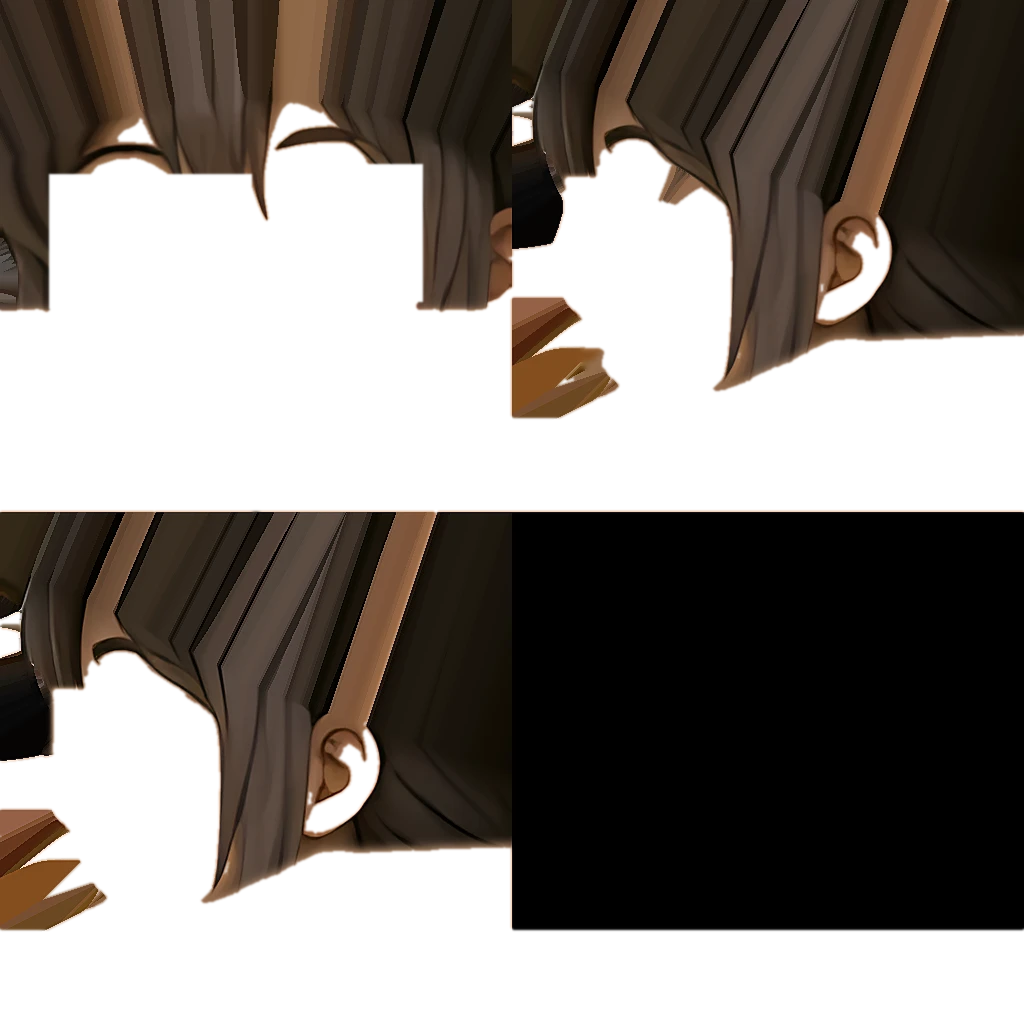
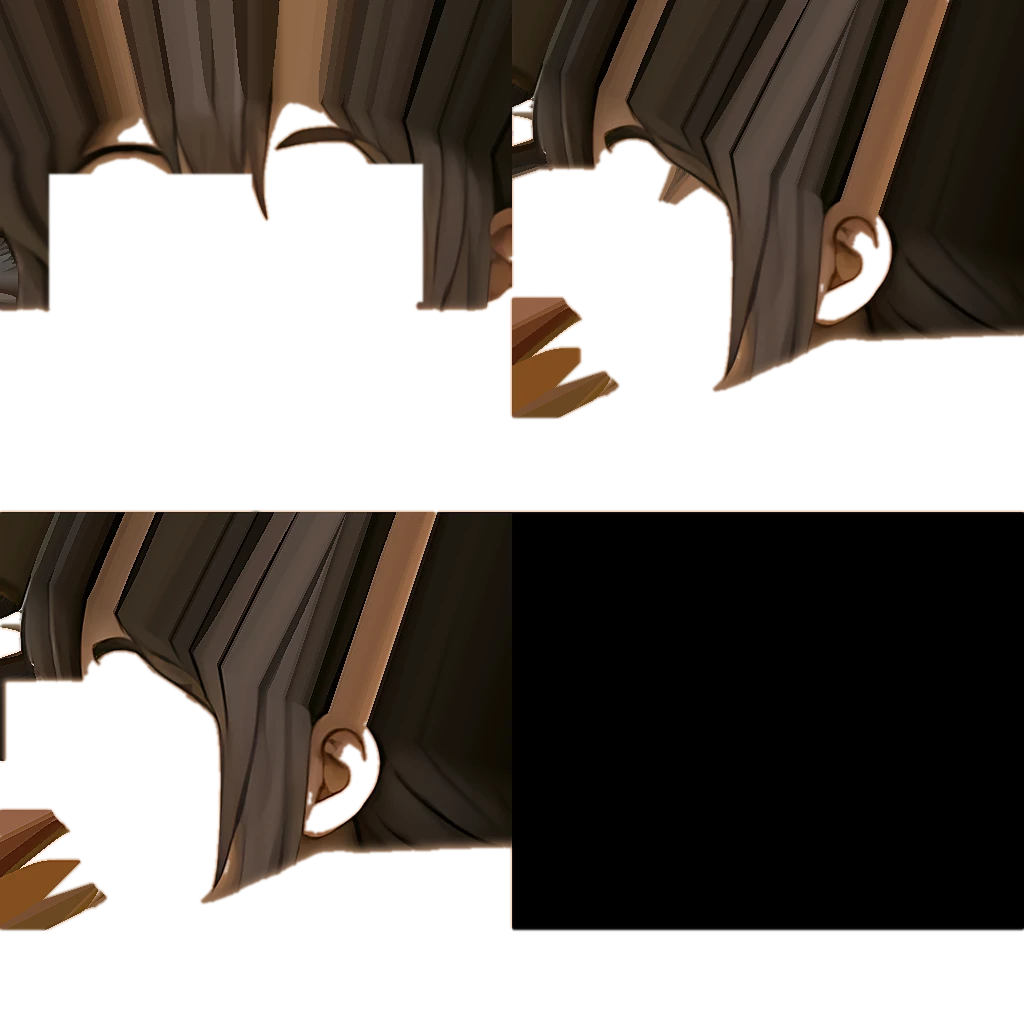
Character v9: soft wide skin gradient masked off the eyes/nose/mouth, eye slide ends exactly on the sheet's side eye (seamless 72deg swap), larger male profile eye with the hair shell cleared over it, warm-brown side iris for her, sheet side-view smile on the same hard switch (front mouth removed th

Changed region(s): [[0.5, 0.1562, 0.5938, 0.25], [0.0, 0.6562, 0.0938, 0.75], [0.5312, 0.3125, 0.5938, 0.375]]

diff --git a/index.html b/index.html
@@ -5313,7 +5313,7 @@ const CharView = (() => {
       B['th' + k] = bone('thigh' + k, B.hips, s * 0.082, -0.045, 0); B['sn' + k] = bone('shin' + k, B['th' + k], 0, -LT, 0); B['ft' + k] = bone('foot' + k, B['sn' + k], 0, -LS, 0); }
     // ---- head: a sculpted anime head (oval, cheek volume, small nose / lip / chin profile) with a painted face decal ----
     const HC = V(0, 0.122, 0.012), head = new THREE.Group(); head.position.copy(HC); head.scale.setScalar(F ? 0.93 : 0.94); B.head.add(head); B.headC = head;
-    const HD = HEADS[F ? 'f' : 'm'], hgeo = headGeo(F); part(head, hgeo, headMat(F)); if (window.HSHELL !== 0) part(head, hairShell(hgeo, F), headMat(F, true), null, null, null, { ink: false });
+    const HD = HEADS[F ? 'f' : 'm'], hgeo = headGeo(F); { const hm = part(head, hgeo, headMat(F), null, null, null, { ink: false }); hm.add(new THREE.Mesh(hgeo, headInk())); } if (window.HSHELL !== 0) part(head, hairShell(hgeo, F), headMat(F, true), null, null, null, { ink: false });
     // ears (with an inner shade) placed behind the jaw, as on the side view
     for (const s of [-1, 1]) { const W = tab(HD.rows, HD.ear[0], 1), o = new THREE.Object3D(); o.position.set(s * (W + 0.003), HD.ear[0], HD.ear[1]); o.rotation.set(0, s * 0.45, s * 0.08); o.updateMatrix();
       const eg = ell(0.013, 0.022, 0.009, 16, 12).applyMatrix4(o.matrix); eg.setAttribute('color', new THREE.Float32BufferAttribute(new Array(eg.attributes.position.count * 3).fill(0.96), 3)); part(head, eg, headMat(F)); }
@@ -5327,7 +5327,7 @@ const CharView = (() => {
         sh.vertexShader = sh.vertexShader.replace('#include <common>', '#include <common>\nvarying vec3 vOP;').replace('#include <begin_vertex>', '#include <begin_vertex>\nvOP = position;');
         sh.fragmentShader = sh.fragmentShader.replace('#include <common>', '#include <common>\nvarying vec3 vOP; uniform vec3 uView; uniform vec4 uEP; uniform vec4 uET; uniform vec4 uPR; uniform float uK; uniform float uXR; uniform sampler2D mapS;\n' + EYEWARP)
           .replace('#include <map_fragment>', 'vec2 luv = vec2((64.0 + eyeWarpX(vOP.x, uView, uEP, uET) / uK) / 128.0, 1.0 - (60.0 - (vOP.y + 0.03) / uK) / 116.0); vec4 lt = texture2D(map, luv); float sv = sign(uView.x + 1e-4); if (abs(uView.x) > 0.951 && vOP.x * sv > 0.0) lt = texture2D(mapS, vec2((uXR - vOP.z / uK - 667.0) / 128.0, 1.0 - (60.0 - (vOP.y + 0.03) / uK) / 116.0)); diffuseColor *= lt;')
-          .replace('#include <emissivemap_fragment>', '#include <emissivemap_fragment>\n' + TONE2('1.0') + '0.2;'); }; dm.customProgramCacheKey = () => 'lidwarp2';
+          .replace('#include <emissivemap_fragment>', '#include <emissivemap_fragment>\n' + TONE2('1.0', '0.0') + '0.2;'); }; dm.customProgramCacheKey = () => 'lidwarp3';
       const dec = new THREE.Mesh(dg, dm); dec.renderOrder = 1; dec.visible = false; head.add(dec); built.face = { m: dm, mesh: dec, key: '0_0', F, uMS }; }
     // ---- hair: a cap plus layered, tapered clumps (fringe, side locks, back) ----
     const lock = (pts, r0, o = {}) => { const cur = new THREE.CatmullRomCurve3(pts.map((p) => V(...p))), ts = 16, rs = 9, g = new THREE.TubeGeometry(cur, ts, r0, rs, false), Pp = g.attributes.position, c = V(0, 0, 0), v = V(0, 0, 0), n = V(0, 0, 0);
@@ -5501,15 +5501,16 @@ const CharView = (() => {
   const HEADS = {
     m: { K: 0.0023, xref: 730.4, rows: [[0.132, 0, -0.012, -0.012], [0.12, 0.058, 0.05, -0.078], [0.1, 0.086, 0.078, -0.106], [0.07, 0.102, 0.095, -0.12], [0.04, 0.107, 0.102, -0.125], [0.01, 0.107, 0.103, -0.124], [-0.015, 0.105, 0.1, -0.121], [-0.03, 0.102, 0.097, -0.117], [-0.045, 0.098, 0.091, -0.108], [-0.06, 0.091, 0.093, -0.045], [-0.08, 0.082, 0.095, -0.03], [-0.095, 0.073, 0.092, -0.018], [-0.11, 0.059, 0.083, -0.004], [-0.122, 0.046, 0.077, 0.012], [-0.132, 0.032, 0.075, 0.032], [-0.14, 0.018, 0.073, 0.054], [-0.147, 0, 0.07, 0.07]],
       nose: [[-0.035, 0], [-0.045, 0.003], [-0.055, 0.009], [-0.063, 0.017], [-0.068, 0.021], [-0.073, 0.015], [-0.079, 0.005], [-0.084, 0]], lips: [-0.094, 0.0045], ear: [-0.033, -0.045],
-      eyesF: [[-33.25, -10.75, -7.5, 6], [13, 35.5, -7.5, 6]], lidCol: '#d2a47a', pe: 120, skin: '#d2a87f', eyeT: [0.072, 0.1, 0.072, 0.1], eyeS: [707, -1, 7.5, 7.5], profR: [711, -1.5, 12, 15] },
+      eyesF: [[-33.25, -10.75, -7.5, 6], [13, 35.5, -7.5, 6]], lidCol: '#d2a47a', pe: 120, skin: '#d2a87f', eyeT: [0.077, 0.098, 0.077, 0.098], eyeS: [707, -1.25, 9, 9], eyeSc: 1.2, profR: [711.8, -1.5, 14.4, 18], mouthS: [700.5, 29.5, 8, 5] },
     f: { K: 0.0023, xref: 730.4, rows: [[0.132, 0, -0.012, -0.012], [0.12, 0.058, 0.05, -0.078], [0.1, 0.085, 0.078, -0.106], [0.07, 0.1, 0.095, -0.12], [0.04, 0.106, 0.103, -0.125], [0.01, 0.106, 0.104, -0.124], [-0.015, 0.104, 0.1, -0.121], [-0.03, 0.101, 0.096, -0.117], [-0.045, 0.097, 0.097, -0.108], [-0.065, 0.087, 0.099, -0.04], [-0.085, 0.077, 0.104, -0.02], [-0.1, 0.067, 0.1, -0.005], [-0.114, 0.052, 0.092, 0.02], [-0.128, 0.034, 0.087, 0.048], [-0.137, 0.02, 0.084, 0.068], [-0.144, 0.009, 0.082, 0.077], [-0.149, 0, 0.08, 0.08]],
       nose: [[-0.033, 0], [-0.043, 0.003], [-0.053, 0.008], [-0.061, 0.015], [-0.066, 0.018], [-0.071, 0.012], [-0.077, 0.004], [-0.082, 0]], lips: [-0.088, 0.004], ear: [-0.04, -0.045],
-      eyesF: [[-45.1, -7.8, -11.9, 13.1], [10.8, 35, -14.4, 11.6]], lidCol: '#dcac84', pe: 179.4, skin: '#d6a784', eyeT: [0.07, 0.1, 0.07, 0.1], eyeS: [705.5, -5, 7.5, 11.5], profR: [709, -4, 12, 18] } };
+      eyesF: [[-45.1, -7.8, -11.9, 13.1], [10.8, 35, -14.4, 11.6]], lidCol: '#dcac84', pe: 179.4, skin: '#d6a784', eyeT: [0.079, 0.0975, 0.079, 0.0975], eyeS: [705.5, -5, 7.5, 11.5], eyeSc: 1.0, profR: [709, -4, 12, 18], mouthS: [692.5, 27, 6.5, 4] } };
   // body skin (neck, hands, legs): the face atlas's median skin with the same tint, Lambert lighting and emissive lift as the projected head, so there is no tone step at the jaw
-  // soft two-tone anime shading on skin: a lit/shade step against the key light, on top of the flat (normal-independent) concept colour
-  const TONE2 = (k) => 'vec3 Ld2 = normalize((viewMatrix * vec4(0.38, 0.71, 0.59, 0.0)).xyz); float t2s = mix(0.86, 1.0, smoothstep(0.0, 0.14, dot(normal, Ld2)));\ntotalEmissiveRadiance += diffuseColor.rgb * ' + k + ' * t2s; diffuseColor.rgb *= ';
+  // soft anime shading on skin: a gentle, wide gradient away from the key light (far cheek, under the chin), on top of the flat concept colour;
+  // on the head it is masked off the front of the face (eyes, nose, mouth) except the underside of the jaw
+  const TONE2 = (k, msk) => 'vec3 Ld2 = normalize((viewMatrix * vec4(0.38, 0.71, 0.59, 0.0)).xyz); float t2s = 1.0 - 0.085 * (1.0 - smoothstep(-0.6, 0.3, dot(normal, Ld2))) * ' + (msk || '1.0') + ';\ntotalEmissiveRadiance += diffuseColor.rgb * ' + k + ' * t2s; diffuseColor.rgb *= ';
   const _skinMats = {}; function skinMat(F, lit = 0.2, gain = 1) { const k = (F ? 'f' : 'm') + lit + '_' + gain; if (_skinMats[k]) return _skinMats[k]; const c = new THREE.Color(HEADS[F ? 'f' : 'm'].skin); c.r *= 0.96; c.b = Math.min(1, c.b * 1.1); const m = _skinMats[k] = new THREE.MeshLambertMaterial({ color: c });
-    m.onBeforeCompile = (sh) => { sh.fragmentShader = sh.fragmentShader.replace('#include <emissivemap_fragment>', '#include <emissivemap_fragment>\n' + TONE2(((1.0 - lit * 0.15) * gain).toFixed(3)) + lit.toFixed(3) + ';'); }; m.customProgramCacheKey = () => 'skinlift2' + lit + '_' + gain; return m; }
+    m.onBeforeCompile = (sh) => { sh.fragmentShader = sh.fragmentShader.replace('#include <emissivemap_fragment>', '#include <emissivemap_fragment>\n' + TONE2(((1.0 - lit * 0.15) * gain).toFixed(3)) + lit.toFixed(3) + ';'); }; m.customProgramCacheKey = () => 'skinlift3' + lit + '_' + gain; return m; }
   const tab = (T, y, k) => { const n = T.length; if (y >= T[0][0]) return T[0][k]; if (y <= T[n - 1][0]) return T[n - 1][k]; let i = 1; while (T[i][0] > y) i++; const p1 = T[i - 1], p2 = T[i], p0 = T[Math.max(0, i - 2)], p3 = T[Math.min(n - 1, i + 1)], t = (p1[0] - y) / (p1[0] - p2[0]);
     const m1 = (p2[k] - p0[k]) / Math.max(1e-6, (p0[0] - p2[0])) * (p1[0] - p2[0]), m2 = (p3[k] - p1[k]) / Math.max(1e-6, (p1[0] - p3[0])) * (p1[0] - p2[0]), t2 = t * t, t3 = t2 * t;
     return (2 * t3 - 3 * t2 + 1) * p1[k] + (t3 - 2 * t2 + t) * m1 + (-2 * t3 + 3 * t2) * p2[k] + (t3 - t2) * m2; };
@@ -5521,6 +5522,10 @@ const CharView = (() => {
         pos.push(x, y, z); uv.push(j / NC, 1 - t); const m = 1 - 0.08 * ss(0.0, -0.1, z) * ss(-0.08, -0.02, y); col.push(m, m, m); } }
     for (let i = 0; i < NR; i++) for (let j = 0; j < NC; j++) { const a = i * (NC + 1) + j, b = a + NC + 1; idx.push(a, b, a + 1, b, b + 1, a + 1); }
     const g = new THREE.BufferGeometry(); g.setAttribute('position', new THREE.Float32BufferAttribute(pos, 3)); g.setAttribute('uv', new THREE.Float32BufferAttribute(uv, 2)); g.setAttribute('color', new THREE.Float32BufferAttribute(col, 3)); g.setIndex(idx); g.computeVertexNormals(); return g; }
+  // head outline: like OUT, but in side views the ink along the back of the jaw (seen against the neck) fades out, so the jaw blends into the neck
+  let _headInk = null; function headInk() { if (_headInk) return _headInk; _headInk = new THREE.ShaderMaterial({ uniforms: { uW: OUT.uniforms.uW, uC: OUT.uniforms.uC, uView: HVIEW }, side: THREE.BackSide,
+    vertexShader: 'uniform float uW; uniform vec3 uView; void main(){ float f = smoothstep(0.55, 0.85, abs(uView.x)) * smoothstep(-0.015, -0.06, position.y) * smoothstep(0.06, 0.01, position.z) * smoothstep(-0.095, -0.06, position.z); vec3 p = position + normalize(normal) * uW * (1.0 - 0.9 * f); gl_Position = projectionMatrix * modelViewMatrix * vec4(p, 1.0); }',
+    fragmentShader: OUT.fragmentShader }); return _headInk; }
   const _headTex = {}, HVIEW = { value: new THREE.Vector3(0, 0, 1) };
   function headAtlas(F) { const k = F ? 'f' : 'm'; if (!_headTex[k]) { const t = new THREE.TextureLoader().load('assets/char/face-' + k + '.webp'); t.anisotropy = 4; t.wrapS = t.wrapT = THREE.ClampToEdgeWrapping; _headTex[k] = t; } return _headTex[k]; }
   // toon material whose colour comes from the concept: front view projected along z, side view along x, blended by the surface normal
@@ -5528,12 +5533,12 @@ const CharView = (() => {
   // so in profile it sits where the sheet draws the side eye. One source per pixel at every angle: no crossfade, no ghost eyes.
   const EYEWARP = 'float eyeWarpX(float x, vec3 vw, vec4 EP, vec4 ET) { float sv = sign(vw.x + 1e-4), a = smoothstep(0.34, 0.98, abs(vw.x)), ax = abs(x); vec2 E = sv > 0.0 ? EP.xy : EP.zw, T = sv > 0.0 ? ET.xy : ET.zw; vec2 Q = mix(E, T, (x * sv > 0.0) ? a : 0.0); float We = 0.112;\n'
     + ' float t = ax < Q.x ? ax * E.x / Q.x : (ax < Q.y ? E.x + (ax - Q.x) * (E.y - E.x) / (Q.y - Q.x) : E.y + (ax - Q.y) * (We - E.y) / max(We - Q.y, 1e-4)); return sign(x) * t; }\n';
-  const eyeUniforms = (H) => { const K = H.K, e = H.eyesF; return { uEP: { value: new THREE.Vector4(e[1][0] * K, e[1][1] * K, -e[0][1] * K, -e[0][0] * K) }, uET: { value: new THREE.Vector4(...H.eyeT) }, uPR: { value: new THREE.Vector4(...H.profR) }, uPF: { value: new THREE.Vector4(-e[0][1] - 4, -e[0][0] + 4, Math.min(e[0][2], e[1][2]) - 5, Math.max(e[0][3], e[1][3]) + 4) } }; };
+  const eyeUniforms = (H) => { const K = H.K, e = H.eyesF; return { uEP: { value: new THREE.Vector4(e[1][0] * K, e[1][1] * K, -e[0][1] * K, -e[0][0] * K) }, uET: { value: new THREE.Vector4(...H.eyeT) }, uPR: { value: new THREE.Vector4(...H.profR) }, uES: { value: new THREE.Vector3(H.eyeS[0], H.eyeS[1], H.eyeSc) }, uPM: { value: new THREE.Vector4(...H.mouthS) }, uPF: { value: new THREE.Vector4(-e[0][1] - 4, -e[0][0] + 4, Math.min(e[0][2], e[1][2]) - 5, Math.max(e[0][3], e[1][3]) + 4) } }; };
   const _headMats = {};
   function headMat(F, shell) { const mk = (F ? 'f' : 'm') + (shell ? 's' : ''); if (_headMats[mk]) return _headMats[mk]; const H = HEADS[F ? 'f' : 'm'], m = _headMats[mk] = new THREE.MeshLambertMaterial({ map: headAtlas(F), vertexColors: true, alphaTest: shell ? 0.5 : 0 });
     m.onBeforeCompile = (sh) => { sh.uniforms.uHK = { value: new THREE.Vector2(H.K, H.xref) }; sh.uniforms.uView = HVIEW; Object.assign(sh.uniforms, eyeUniforms(H));
       sh.vertexShader = sh.vertexShader.replace('#include <common>', '#include <common>\nvarying vec3 vOP; varying vec3 vON;').replace('#include <begin_vertex>', '#include <begin_vertex>\nvOP = position; vON = normal;');
-      sh.fragmentShader = sh.fragmentShader.replace('#include <common>', '#include <common>\nvarying vec3 vOP; varying vec3 vON; uniform vec2 uHK; uniform vec3 uView; uniform vec4 uEP; uniform vec4 uET; uniform vec4 uPR; uniform vec4 uPF;\n' + EYEWARP).replace('#include <map_fragment>', [
+      sh.fragmentShader = sh.fragmentShader.replace('#include <common>', '#include <common>\nvarying vec3 vOP; varying vec3 vON; uniform vec2 uHK; uniform vec3 uView; uniform vec4 uEP; uniform vec4 uET; uniform vec4 uPR; uniform vec4 uPF; uniform vec3 uES; uniform vec4 uPM;\n' + EYEWARP).replace('#include <map_fragment>', [
         'float hk = uHK.x; float rr = 4.0 * (60.0 - (vOP.y + 0.03) / hk); float sx = 4.0 * (uHK.y - vOP.z / hk - 667.0);',
         'float xw = eyeWarpX(vOP.x, uView, uEP, uET); vec2 uF = vec2(clamp(4.0 * (64.0 + xw / hk) / 1024.0, 0.002, 0.498), clamp(1.0 - rr / 1024.0, 0.553, 0.999));',
         'vec2 uS = vec2(clamp((512.0 + sx) / 1024.0, 0.502, 0.998), clamp(1.0 - rr / 1024.0, 0.553, 0.999));',
@@ -5546,8 +5551,13 @@ const CharView = (() => {
                 // ...and the far eye (which would peek past the nose bridge) is replaced by the clean side projection
         shell ? '' : 'float ax2 = -vOP.x * sv / hk; float swF = step(0.951, abs(uView.x)) * step(0.0, -vOP.x * sv) * step(uPF.x, ax2) * step(ax2, uPF.y) * step(uPF.z, rr / 4.0 - 60.0) * step(rr / 4.0 - 60.0, uPF.w); hc = mix(hc, texture2D(map, uS), swF);',
         shell ? '' : 'vec2 EN = sv > 0.0 ? uEP.xy : uEP.zw; float axn = xw * sv; float swN = step(0.951, abs(uView.x)) * step(0.0, vOP.x * sv) * step(EN.x - 4.0 * hk, axn) * step(axn, EN.y + 6.0 * hk) * step(uPF.z, rr / 4.0 - 60.0) * step(rr / 4.0 - 60.0, uPF.w); ',
-        shell ? '' : 'hc = mix(hc, texture2D(map, uV), swP * (1.0 - smoothstep(0.9, 1.0, er)));', shell ? 'diffuseColor *= hc;' : 'diffuseColor.rgb *= hc.rgb * vec3(0.96, 1.0, 1.1);'].join('\n')).replace('#include <emissivemap_fragment>', '#include <emissivemap_fragment>\n' + TONE2('1.0') + '0.2;'); };
-    m.customProgramCacheKey = () => 'headproj2' + (F ? 'f' : 'm') + (shell ? 's' : ''); return m; }
+        // the side eye is drawn at the sheet's size (uES.z scales it about its centre) and the sheet's side-view smile gets the same hard switch
+        shell ? 'hc.a *= 1.0 - swP * (1.0 - smoothstep(1.0, 1.15, er));' : '',
+        shell ? '' : 'vec2 ep = vec2(sx / 4.0 + 667.0, rr / 4.0 - 60.0), eq = uES.xy + (ep - uES.xy) / uES.z; vec2 uVe = vec2(clamp(4.0 * (eq.x - 667.0) / 1024.0, 0.002, 0.498), clamp(1.0 - (512.0 + 4.0 * (eq.y + 60.0)) / 1024.0, 0.053, 0.499));',
+        shell ? '' : 'hc = mix(hc, texture2D(map, uVe), swP * (1.0 - smoothstep(0.9, 1.0, er)));',
+        shell ? '' : 'float swM = step(0.951, abs(uView.x)) * smoothstep(0.01, 0.022, vOP.x * sv) * (1.0 - smoothstep(4.0, 7.0, abs(rr / 4.0 - 60.0 - uPM.y))); hc = mix(hc, texture2D(map, uF + vec2(0.0, 24.0 / 1024.0)), swM);',
+        shell ? '' : 'float em = length((ep - uPM.xy) / uPM.zw); hc = mix(hc, texture2D(map, uV), step(0.951, abs(uView.x)) * step(0.0, vOP.x * sv) * (1.0 - smoothstep(0.75, 1.0, em)));', shell ? 'diffuseColor *= hc;' : 'diffuseColor.rgb *= hc.rgb * vec3(0.96, 1.0, 1.1);'].join('\n')).replace('#include <emissivemap_fragment>', '#include <emissivemap_fragment>\n' + TONE2('1.0', '(1.0 - smoothstep(0.3, 0.65, normalize(vON).z) * (1.0 - smoothstep(-0.25, -0.55, normalize(vON).y)))') + '0.2;'); };
+    m.customProgramCacheKey = () => 'headproj3' + (F ? 'f' : 'm') + (shell ? 's' : ''); return m; }
   // hair shell: the head pushed out along its normals, showing only the concept's hair pixels (alpha mask), so painted hair gets real volume
   function hairShell(g, F) { const s = g.clone(), P = s.attributes.position, N = s.attributes.normal; for (let i = 0; i < P.count; i++) { const y = P.getY(i), d = 0.006 + 0.008 * ss(0.0, 0.08, y) + 0.004 * ss(0.0, -0.1, P.getZ(i)); P.setXYZ(i, P.getX(i) + N.getX(i) * d, y + N.getY(i) * d, P.getZ(i) + N.getZ(i) * d); }
     s.computeVertexNormals(); return s; }
@@ -5558,7 +5568,7 @@ const CharView = (() => {
     let src = null; if (live) { const c = document.createElement('canvas'); c.width = 512; c.height = 464; const cg = c.getContext('2d'); cg.drawImage(img, 0, side ? 512 : 0, 512, 464, 0, 0, 512, 464); src = cg.getImageData(0, 0, 512, 464).data; }
     const skinAt = (X0, Y0, RX, RY) => { if (!src) return H.lidCol; const px = []; for (let a = 0; a < 64; a++) for (const k of [1.25, 1.45, 1.7]) { const x = Math.round(X0 + Math.cos(a / 64 * TAU) * RX * k), y = Math.round(Y0 + Math.sin(a / 64 * TAU) * RY * k); if (x < 0 || y < 0 || x >= 512 || y >= 464) continue; const o = (y * 512 + x) * 4, r = src[o], g = src[o + 1], b = src[o + 2]; if (r > g && g > b && r + g + b > 420 && r - b > 30) px.push([r, g, b]); }
       if (px.length < 6) return H.lidCol; const med = (k) => px.map((p) => p[k]).sort((a, b) => a - b)[px.length >> 1]; return `rgb(${med(0)},${med(1)},${med(2)})`; };
-    const t = cv(512, 464, (g) => { g.clearRect(0, 0, 512, 464); if (!lidK) return; for (const [ex0, ex1, ey0, ey1] of (side ? [[H.eyeS[0] - 667 - 64 - H.eyeS[2], H.eyeS[0] - 667 - 64 + H.eyeS[2], H.eyeS[1] - H.eyeS[3], H.eyeS[1] + H.eyeS[3]]] : H.eyesF)) { const cx = (ex0 + ex1) / 2, cy = (ey0 + ey1) / 2, rx = (ex1 - ex0) / 2 + 1.6, ry = (ey1 - ey0) / 2 + 1.4, X = (x) => 4 * (x + 64), Y = (y) => 4 * (y + 60);
+    const t = cv(512, 464, (g) => { g.clearRect(0, 0, 512, 464); if (!lidK) return; for (const [ex0, ex1, ey0, ey1] of (side ? [[H.eyeS[0] - 667 - 64 - H.eyeS[2], H.eyeS[0] - 667 - 64 + H.eyeS[2], H.eyeS[1] - H.eyeS[3], H.eyeS[1] + H.eyeS[3]]] : H.eyesF)) { const cx = (ex0 + ex1) / 2, cy = (ey0 + ey1) / 2, rx = (ex1 - ex0) / 2 + 2.6, ry = (ey1 - ey0) / 2 + 2.3, X = (x) => 4 * (x + 64), Y = (y) => 4 * (y + 60);
         const yl = lidK === 2 ? cy + ry * 0.35 : cy - ry * 0.05, col = skinAt(X(cx), Y(cy), rx * 4, ry * 4);
         g.save(); g.filter = 'blur(3px)'; g.fillStyle = col; g.beginPath(); g.ellipse(X(cx), Y(cy), rx * 4, ry * 4, 0, Math.PI, TAU); g.lineTo(X(cx + rx), Y(yl)); g.quadraticCurveTo(X(cx), Y(yl + ry * 0.35), X(cx - rx), Y(yl)); g.closePath(); if (lidK === 2) g.ellipse(X(cx), Y(cy), rx * 4, ry * 4, 0, 0, Math.PI); g.fill(); g.restore();
         // soft shadow along the closed lid, then the lash line

diff --git a/src/char3d.js b/src/char3d.js
@@ -296,7 +296,7 @@ const CharView = (() => {
       B['th' + k] = bone('thigh' + k, B.hips, s * 0.082, -0.045, 0); B['sn' + k] = bone('shin' + k, B['th' + k], 0, -LT, 0); B['ft' + k] = bone('foot' + k, B['sn' + k], 0, -LS, 0); }
     // ---- head: a sculpted anime head (oval, cheek volume, small nose / lip / chin profile) with a painted face decal ----
     const HC = V(0, 0.122, 0.012), head = new THREE.Group(); head.position.copy(HC); head.scale.setScalar(F ? 0.93 : 0.94); B.head.add(head); B.headC = head;
-    const HD = HEADS[F ? 'f' : 'm'], hgeo = headGeo(F); part(head, hgeo, headMat(F)); if (window.HSHELL !== 0) part(head, hairShell(hgeo, F), headMat(F, true), null, null, null, { ink: false });
+    const HD = HEADS[F ? 'f' : 'm'], hgeo = headGeo(F); { const hm = part(head, hgeo, headMat(F), null, null, null, { ink: false }); hm.add(new THREE.Mesh(hgeo, headInk())); } if (window.HSHELL !== 0) part(head, hairShell(hgeo, F), headMat(F, true), null, null, null, { ink: false });
     // ears (with an inner shade) placed behind the jaw, as on the side view
     for (const s of [-1, 1]) { const W = tab(HD.rows, HD.ear[0], 1), o = new THREE.Object3D(); o.position.set(s * (W + 0.003), HD.ear[0], HD.ear[1]); o.rotation.set(0, s * 0.45, s * 0.08); o.updateMatrix();
       const eg = ell(0.013, 0.022, 0.009, 16, 12).applyMatrix4(o.matrix); eg.setAttribute('color', new THREE.Float32BufferAttribute(new Array(eg.attributes.position.count * 3).fill(0.96), 3)); part(head, eg, headMat(F)); }
@@ -310,7 +310,7 @@ const CharView = (() => {
         sh.vertexShader = sh.vertexShader.replace('#include <common>', '#include <common>\nvarying vec3 vOP;').replace('#include <begin_vertex>', '#include <begin_vertex>\nvOP = position;');
         sh.fragmentShader = sh.fragmentShader.replace('#include <common>', '#include <common>\nvarying vec3 vOP; uniform vec3 uView; uniform vec4 uEP; uniform vec4 uET; uniform vec4 uPR; uniform float uK; uniform float uXR; uniform sampler2D mapS;\n' + EYEWARP)
           .replace('#include <map_fragment>', 'vec2 luv = vec2((64.0 + eyeWarpX(vOP.x, uView, uEP, uET) / uK) / 128.0, 1.0 - (60.0 - (vOP.y + 0.03) / uK) / 116.0); vec4 lt = texture2D(map, luv); float sv = sign(uView.x + 1e-4); if (abs(uView.x) > 0.951 && vOP.x * sv > 0.0) lt = texture2D(mapS, vec2((uXR - vOP.z / uK - 667.0) / 128.0, 1.0 - (60.0 - (vOP.y + 0.03) / uK) / 116.0)); diffuseColor *= lt;')
-          .replace('#include <emissivemap_fragment>', '#include <emissivemap_fragment>\n' + TONE2('1.0') + '0.2;'); }; dm.customProgramCacheKey = () => 'lidwarp2';
+          .replace('#include <emissivemap_fragment>', '#include <emissivemap_fragment>\n' + TONE2('1.0', '0.0') + '0.2;'); }; dm.customProgramCacheKey = () => 'lidwarp3';
       const dec = new THREE.Mesh(dg, dm); dec.renderOrder = 1; dec.visible = false; head.add(dec); built.face = { m: dm, mesh: dec, key: '0_0', F, uMS }; }
     // ---- hair: a cap plus layered, tapered clumps (fringe, side locks, back) ----
     const lock = (pts, r0, o = {}) => { const cur = new THREE.CatmullRomCurve3(pts.map((p) => V(...p))), ts = 16, rs = 9, g = new THREE.TubeGeometry(cur, ts, r0, rs, false), Pp = g.attributes.position, c = V(0, 0, 0), v = V(0, 0, 0), n = V(0, 0, 0);
@@ -484,15 +484,16 @@ const CharView = (() => {
   const HEADS = {
     m: { K: 0.0023, xref: 730.4, rows: [[0.132, 0, -0.012, -0.012], [0.12, 0.058, 0.05, -0.078], [0.1, 0.086, 0.078, -0.106], [0.07, 0.102, 0.095, -0.12], [0.04, 0.107, 0.102, -0.125], [0.01, 0.107, 0.103, -0.124], [-0.015, 0.105, 0.1, -0.121], [-0.03, 0.102, 0.097, -0.117], [-0.045, 0.098, 0.091, -0.108], [-0.06, 0.091, 0.093, -0.045], [-0.08, 0.082, 0.095, -0.03], [-0.095, 0.073, 0.092, -0.018], [-0.11, 0.059, 0.083, -0.004], [-0.122, 0.046, 0.077, 0.012], [-0.132, 0.032, 0.075, 0.032], [-0.14, 0.018, 0.073, 0.054], [-0.147, 0, 0.07, 0.07]],
       nose: [[-0.035, 0], [-0.045, 0.003], [-0.055, 0.009], [-0.063, 0.017], [-0.068, 0.021], [-0.073, 0.015], [-0.079, 0.005], [-0.084, 0]], lips: [-0.094, 0.0045], ear: [-0.033, -0.045],
-      eyesF: [[-33.25, -10.75, -7.5, 6], [13, 35.5, -7.5, 6]], lidCol: '#d2a47a', pe: 120, skin: '#d2a87f', eyeT: [0.072, 0.1, 0.072, 0.1], eyeS: [707, -1, 7.5, 7.5], profR: [711, -1.5, 12, 15] },
+      eyesF: [[-33.25, -10.75, -7.5, 6], [13, 35.5, -7.5, 6]], lidCol: '#d2a47a', pe: 120, skin: '#d2a87f', eyeT: [0.077, 0.098, 0.077, 0.098], eyeS: [707, -1.25, 9, 9], eyeSc: 1.2, profR: [711.8, -1.5, 14.4, 18], mouthS: [700.5, 29.5, 8, 5] },
     f: { K: 0.0023, xref: 730.4, rows: [[0.132, 0, -0.012, -0.012], [0.12, 0.058, 0.05, -0.078], [0.1, 0.085, 0.078, -0.106], [0.07, 0.1, 0.095, -0.12], [0.04, 0.106, 0.103, -0.125], [0.01, 0.106, 0.104, -0.124], [-0.015, 0.104, 0.1, -0.121], [-0.03, 0.101, 0.096, -0.117], [-0.045, 0.097, 0.097, -0.108], [-0.065, 0.087, 0.099, -0.04], [-0.085, 0.077, 0.104, -0.02], [-0.1, 0.067, 0.1, -0.005], [-0.114, 0.052, 0.092, 0.02], [-0.128, 0.034, 0.087, 0.048], [-0.137, 0.02, 0.084, 0.068], [-0.144, 0.009, 0.082, 0.077], [-0.149, 0, 0.08, 0.08]],
       nose: [[-0.033, 0], [-0.043, 0.003], [-0.053, 0.008], [-0.061, 0.015], [-0.066, 0.018], [-0.071, 0.012], [-0.077, 0.004], [-0.082, 0]], lips: [-0.088, 0.004], ear: [-0.04, -0.045],
-      eyesF: [[-45.1, -7.8, -11.9, 13.1], [10.8, 35, -14.4, 11.6]], lidCol: '#dcac84', pe: 179.4, skin: '#d6a784', eyeT: [0.07, 0.1, 0.07, 0.1], eyeS: [705.5, -5, 7.5, 11.5], profR: [709, -4, 12, 18] } };
+      eyesF: [[-45.1, -7.8, -11.9, 13.1], [10.8, 35, -14.4, 11.6]], lidCol: '#dcac84', pe: 179.4, skin: '#d6a784', eyeT: [0.079, 0.0975, 0.079, 0.0975], eyeS: [705.5, -5, 7.5, 11.5], eyeSc: 1.0, profR: [709, -4, 12, 18], mouthS: [692.5, 27, 6.5, 4] } };
   // body skin (neck, hands, legs): the face atlas's median skin with the same tint, Lambert lighting and emissive lift as the projected head, so there is no tone step at the jaw
-  // soft two-tone anime shading on skin: a lit/shade step against the key light, on top of the flat (normal-independent) concept colour
-  const TONE2 = (k) => 'vec3 Ld2 = normalize((viewMatrix * vec4(0.38, 0.71, 0.59, 0.0)).xyz); float t2s = mix(0.86, 1.0, smoothstep(0.0, 0.14, dot(normal, Ld2)));\ntotalEmissiveRadiance += diffuseColor.rgb * ' + k + ' * t2s; diffuseColor.rgb *= ';
+  // soft anime shading on skin: a gentle, wide gradient away from the key light (far cheek, under the chin), on top of the flat concept colour;
+  // on the head it is masked off the front of the face (eyes, nose, mouth) except the underside of the jaw
+  const TONE2 = (k, msk) => 'vec3 Ld2 = normalize((viewMatrix * vec4(0.38, 0.71, 0.59, 0.0)).xyz); float t2s = 1.0 - 0.085 * (1.0 - smoothstep(-0.6, 0.3, dot(normal, Ld2))) * ' + (msk || '1.0') + ';\ntotalEmissiveRadiance += diffuseColor.rgb * ' + k + ' * t2s; diffuseColor.rgb *= ';
   const _skinMats = {}; function skinMat(F, lit = 0.2, gain = 1) { const k = (F ? 'f' : 'm') + lit + '_' + gain; if (_skinMats[k]) return _skinMats[k]; const c = new THREE.Color(HEADS[F ? 'f' : 'm'].skin); c.r *= 0.96; c.b = Math.min(1, c.b * 1.1); const m = _skinMats[k] = new THREE.MeshLambertMaterial({ color: c });
-    m.onBeforeCompile = (sh) => { sh.fragmentShader = sh.fragmentShader.replace('#include <emissivemap_fragment>', '#include <emissivemap_fragment>\n' + TONE2(((1.0 - lit * 0.15) * gain).toFixed(3)) + lit.toFixed(3) + ';'); }; m.customProgramCacheKey = () => 'skinlift2' + lit + '_' + gain; return m; }
+    m.onBeforeCompile = (sh) => { sh.fragmentShader = sh.fragmentShader.replace('#include <emissivemap_fragment>', '#include <emissivemap_fragment>\n' + TONE2(((1.0 - lit * 0.15) * gain).toFixed(3)) + lit.toFixed(3) + ';'); }; m.customProgramCacheKey = () => 'skinlift3' + lit + '_' + gain; return m; }
   const tab = (T, y, k) => { const n = T.length; if (y >= T[0][0]) return T[0][k]; if (y <= T[n - 1][0]) return T[n - 1][k]; let i = 1; while (T[i][0] > y) i++; const p1 = T[i - 1], p2 = T[i], p0 = T[Math.max(0, i - 2)], p3 = T[Math.min(n - 1, i + 1)], t = (p1[0] - y) / (p1[0] - p2[0]);
     const m1 = (p2[k] - p0[k]) / Math.max(1e-6, (p0[0] - p2[0])) * (p1[0] - p2[0]), m2 = (p3[k] - p1[k]) / Math.max(1e-6, (p1[0] - p3[0])) * (p1[0] - p2[0]), t2 = t * t, t3 = t2 * t;
     return (2 * t3 - 3 * t2 + 1) * p1[k] + (t3 - 2 * t2 + t) * m1 + (-2 * t3 + 3 * t2) * p2[k] + (t3 - t2) * m2; };
@@ -504,6 +505,10 @@ const CharView = (() => {
         pos.push(x, y, z); uv.push(j / NC, 1 - t); const m = 1 - 0.08 * ss(0.0, -0.1, z) * ss(-0.08, -0.02, y); col.push(m, m, m); } }
     for (let i = 0; i < NR; i++) for (let j = 0; j < NC; j++) { const a = i * (NC + 1) + j, b = a + NC + 1; idx.push(a, b, a + 1, b, b + 1, a + 1); }
     const g = new THREE.BufferGeometry(); g.setAttribute('position', new THREE.Float32BufferAttribute(pos, 3)); g.setAttribute('uv', new THREE.Float32BufferAttribute(uv, 2)); g.setAttribute('color', new THREE.Float32BufferAttribute(col, 3)); g.setIndex(idx); g.computeVertexNormals(); return g; }
+  // head outline: like OUT, but in side views the ink along the back of the jaw (seen against the neck) fades out, so the jaw blends into the neck
+  let _headInk = null; function headInk() { if (_headInk) return _headInk; _headInk = new THREE.ShaderMaterial({ uniforms: { uW: OUT.uniforms.uW, uC: OUT.uniforms.uC, uView: HVIEW }, side: THREE.BackSide,
+    vertexShader: 'uniform float uW; uniform vec3 uView; void main(){ float f = smoothstep(0.55, 0.85, abs(uView.x)) * smoothstep(-0.015, -0.06, position.y) * smoothstep(0.06, 0.01, position.z) * smoothstep(-0.095, -0.06, position.z); vec3 p = position + normalize(normal) * uW * (1.0 - 0.9 * f); gl_Position = projectionMatrix * modelViewMatrix * vec4(p, 1.0); }',
+    fragmentShader: OUT.fragmentShader }); return _headInk; }
   const _headTex = {}, HVIEW = { value: new THREE.Vector3(0, 0, 1) };
   function headAtlas(F) { const k = F ? 'f' : 'm'; if (!_headTex[k]) { const t = new THREE.TextureLoader().load('assets/char/face-' + k + '.webp'); t.anisotropy = 4; t.wrapS = t.wrapT = THREE.ClampToEdgeWrapping; _headTex[k] = t; } return _headTex[k]; }
   // toon material whose colour comes from the concept: front view projected along z, side view along x, blended by the surface normal
@@ -511,12 +516,12 @@ const CharView = (() => {
   // so in profile it sits where the sheet draws the side eye. One source per pixel at every angle: no crossfade, no ghost eyes.
   const EYEWARP = 'float eyeWarpX(float x, vec3 vw, vec4 EP, vec4 ET) { float sv = sign(vw.x + 1e-4), a = smoothstep(0.34, 0.98, abs(vw.x)), ax = abs(x); vec2 E = sv > 0.0 ? EP.xy : EP.zw, T = sv > 0.0 ? ET.xy : ET.zw; vec2 Q = mix(E, T, (x * sv > 0.0) ? a : 0.0); float We = 0.112;\n'
     + ' float t = ax < Q.x ? ax * E.x / Q.x : (ax < Q.y ? E.x + (ax - Q.x) * (E.y - E.x) / (Q.y - Q.x) : E.y + (ax - Q.y) * (We - E.y) / max(We - Q.y, 1e-4)); return sign(x) * t; }\n';
-  const eyeUniforms = (H) => { const K = H.K, e = H.eyesF; return { uEP: { value: new THREE.Vector4(e[1][0] * K, e[1][1] * K, -e[0][1] * K, -e[0][0] * K) }, uET: { value: new THREE.Vector4(...H.eyeT) }, uPR: { value: new THREE.Vector4(...H.profR) }, uPF: { value: new THREE.Vector4(-e[0][1] - 4, -e[0][0] + 4, Math.min(e[0][2], e[1][2]) - 5, Math.max(e[0][3], e[1][3]) + 4) } }; };
+  const eyeUniforms = (H) => { const K = H.K, e = H.eyesF; return { uEP: { value: new THREE.Vector4(e[1][0] * K, e[1][1] * K, -e[0][1] * K, -e[0][0] * K) }, uET: { value: new THREE.Vector4(...H.eyeT) }, uPR: { value: new THREE.Vector4(...H.profR) }, uES: { value: new THREE.Vector3(H.eyeS[0], H.eyeS[1], H.eyeSc) }, uPM: { value: new THREE.Vector4(...H.mouthS) }, uPF: { value: new THREE.Vector4(-e[0][1] - 4, -e[0][0] + 4, Math.min(e[0][2], e[1][2]) - 5, Math.max(e[0][3], e[1][3]) + 4) } }; };
   const _headMats = {};
   function headMat(F, shell) { const mk = (F ? 'f' : 'm') + (shell ? 's' : ''); if (_headMats[mk]) return _headMats[mk]; const H = HEADS[F ? 'f' : 'm'], m = _headMats[mk] = new THREE.MeshLambertMaterial({ map: headAtlas(F), vertexColors: true, alphaTest: shell ? 0.5 : 0 });
     m.onBeforeCompile = (sh) => { sh.uniforms.uHK = { value: new THREE.Vector2(H.K, H.xref) }; sh.uniforms.uView = HVIEW; Object.assign(sh.uniforms, eyeUniforms(H));
       sh.vertexShader = sh.vertexShader.replace('#include <common>', '#include <common>\nvarying vec3 vOP; varying vec3 vON;').replace('#include <begin_vertex>', '#include <begin_vertex>\nvOP = position; vON = normal;');
-      sh.fragmentShader = sh.fragmentShader.replace('#include <common>', '#include <common>\nvarying vec3 vOP; varying vec3 vON; uniform vec2 uHK; uniform vec3 uView; uniform vec4 uEP; uniform vec4 uET; uniform vec4 uPR; uniform vec4 uPF;\n' + EYEWARP).replace('#include <map_fragment>', [
+      sh.fragmentShader = sh.fragmentShader.replace('#include <common>', '#include <common>\nvarying vec3 vOP; varying vec3 vON; uniform vec2 uHK; uniform vec3 uView; uniform vec4 uEP; uniform vec4 uET; uniform vec4 uPR; uniform vec4 uPF; uniform vec3 uES; uniform vec4 uPM;\n' + EYEWARP).replace('#include <map_fragment>', [
         'float hk = uHK.x; float rr = 4.0 * (60.0 - (vOP.y + 0.03) / hk); float sx = 4.0 * (uHK.y - vOP.z / hk - 667.0);',
         'float xw = eyeWarpX(vOP.x, uView, uEP, uET); vec2 uF = vec2(clamp(4.0 * (64.0 + xw / hk) / 1024.0, 0.002, 0.498), clamp(1.0 - rr / 1024.0, 0.553, 0.999));',
         'vec2 uS = vec2(clamp((512.0 + sx) / 1024.0, 0.502, 0.998), clamp(1.0 - rr / 1024.0, 0.553, 0.999));',
@@ -529,8 +534,13 @@ const CharView = (() => {
                 // ...and the far eye (which would peek past the nose bridge) is replaced by the clean side projection
         shell ? '' : 'float ax2 = -vOP.x * sv / hk; float swF = step(0.951, abs(uView.x)) * step(0.0, -vOP.x * sv) * step(uPF.x, ax2) * step(ax2, uPF.y) * step(uPF.z, rr / 4.0 - 60.0) * step(rr / 4.0 - 60.0, uPF.w); hc = mix(hc, texture2D(map, uS), swF);',
         shell ? '' : 'vec2 EN = sv > 0.0 ? uEP.xy : uEP.zw; float axn = xw * sv; float swN = step(0.951, abs(uView.x)) * step(0.0, vOP.x * sv) * step(EN.x - 4.0 * hk, axn) * step(axn, EN.y + 6.0 * hk) * step(uPF.z, rr / 4.0 - 60.0) * step(rr / 4.0 - 60.0, uPF.w); ',
-        shell ? '' : 'hc = mix(hc, texture2D(map, uV), swP * (1.0 - smoothstep(0.9, 1.0, er)));', shell ? 'diffuseColor *= hc;' : 'diffuseColor.rgb *= hc.rgb * vec3(0.96, 1.0, 1.1);'].join('\n')).replace('#include <emissivemap_fragment>', '#include <emissivemap_fragment>\n' + TONE2('1.0') + '0.2;'); };
-    m.customProgramCacheKey = () => 'headproj2' + (F ? 'f' : 'm') + (shell ? 's' : ''); return m; }
+        // the side eye is drawn at the sheet's size (uES.z scales it about its centre) and the sheet's side-view smile gets the same hard switch
+        shell ? 'hc.a *= 1.0 - swP * (1.0 - smoothstep(1.0, 1.15, er));' : '',
+        shell ? '' : 'vec2 ep = vec2(sx / 4.0 + 667.0, rr / 4.0 - 60.0), eq = uES.xy + (ep - uES.xy) / uES.z; vec2 uVe = vec2(clamp(4.0 * (eq.x - 667.0) / 1024.0, 0.002, 0.498), clamp(1.0 - (512.0 + 4.0 * (eq.y + 60.0)) / 1024.0, 0.053, 0.499));',
+        shell ? '' : 'hc = mix(hc, texture2D(map, uVe), swP * (1.0 - smoothstep(0.9, 1.0, er)));',
+        shell ? '' : 'float swM = step(0.951, abs(uView.x)) * smoothstep(0.01, 0.022, vOP.x * sv) * (1.0 - smoothstep(4.0, 7.0, abs(rr / 4.0 - 60.0 - uPM.y))); hc = mix(hc, texture2D(map, uF + vec2(0.0, 24.0 / 1024.0)), swM);',
+        shell ? '' : 'float em = length((ep - uPM.xy) / uPM.zw); hc = mix(hc, texture2D(map, uV), step(0.951, abs(uView.x)) * step(0.0, vOP.x * sv) * (1.0 - smoothstep(0.75, 1.0, em)));', shell ? 'diffuseColor *= hc;' : 'diffuseColor.rgb *= hc.rgb * vec3(0.96, 1.0, 1.1);'].join('\n')).replace('#include <emissivemap_fragment>', '#include <emissivemap_fragment>\n' + TONE2('1.0', '(1.0 - smoothstep(0.3, 0.65, normalize(vON).z) * (1.0 - smoothstep(-0.25, -0.55, normalize(vON).y)))') + '0.2;'); };
+    m.customProgramCacheKey = () => 'headproj3' + (F ? 'f' : 'm') + (shell ? 's' : ''); return m; }
   // hair shell: the head pushed out along its normals, showing only the concept's hair pixels (alpha mask), so painted hair gets real volume
   function hairShell(g, F) { const s = g.clone(), P = s.attributes.position, N = s.attributes.normal; for (let i = 0; i < P.count; i++) { const y = P.getY(i), d = 0.006 + 0.008 * ss(0.0, 0.08, y) + 0.004 * ss(0.0, -0.1, P.getZ(i)); P.setXYZ(i, P.getX(i) + N.getX(i) * d, y + N.getY(i) * d, P.getZ(i) + N.getZ(i) * d); }
     s.computeVertexNormals(); return s; }
@@ -541,7 +551,7 @@ const CharView = (() => {
     let src = null; if (live) { const c = document.createElement('canvas'); c.width = 512; c.height = 464; const cg = c.getContext('2d'); cg.drawImage(img, 0, side ? 512 : 0, 512, 464, 0, 0, 512, 464); src = cg.getImageData(0, 0, 512, 464).data; }
     const skinAt = (X0, Y0, RX, RY) => { if (!src) return H.lidCol; const px = []; for (let a = 0; a < 64; a++) for (const k of [1.25, 1.45, 1.7]) { const x = Math.round(X0 + Math.cos(a / 64 * TAU) * RX * k), y = Math.round(Y0 + Math.sin(a / 64 * TAU) * RY * k); if (x < 0 || y < 0 || x >= 512 || y >= 464) continue; const o = (y * 512 + x) * 4, r = src[o], g = src[o + 1], b = src[o + 2]; if (r > g && g > b && r + g + b > 420 && r - b > 30) px.push([r, g, b]); }
       if (px.length < 6) return H.lidCol; const med = (k) => px.map((p) => p[k]).sort((a, b) => a - b)[px.length >> 1]; return `rgb(${med(0)},${med(1)},${med(2)})`; };
-    const t = cv(512, 464, (g) => { g.clearRect(0, 0, 512, 464); if (!lidK) return; for (const [ex0, ex1, ey0, ey1] of (side ? [[H.eyeS[0] - 667 - 64 - H.eyeS[2], H.eyeS[0] - 667 - 64 + H.eyeS[2], H.eyeS[1] - H.eyeS[3], H.eyeS[1] + H.eyeS[3]]] : H.eyesF)) { const cx = (ex0 + ex1) / 2, cy = (ey0 + ey1) / 2, rx = (ex1 - ex0) / 2 + 1.6, ry = (ey1 - ey0) / 2 + 1.4, X = (x) => 4 * (x + 64), Y = (y) => 4 * (y + 60);
+    const t = cv(512, 464, (g) => { g.clearRect(0, 0, 512, 464); if (!lidK) return; for (const [ex0, ex1, ey0, ey1] of (side ? [[H.eyeS[0] - 667 - 64 - H.eyeS[2], H.eyeS[0] - 667 - 64 + H.eyeS[2], H.eyeS[1] - H.eyeS[3], H.eyeS[1] + H.eyeS[3]]] : H.eyesF)) { const cx = (ex0 + ex1) / 2, cy = (ey0 + ey1) / 2, rx = (ex1 - ex0) / 2 + 2.6, ry = (ey1 - ey0) / 2 + 2.3, X = (x) => 4 * (x + 64), Y = (y) => 4 * (y + 60);
         const yl = lidK === 2 ? cy + ry * 0.35 : cy - ry * 0.05, col = skinAt(X(cx), Y(cy), rx * 4, ry * 4);
         g.save(); g.filter = 'blur(3px)'; g.fillStyle = col; g.beginPath(); g.ellipse(X(cx), Y(cy), rx * 4, ry * 4, 0, Math.PI, TAU); g.lineTo(X(cx + rx), Y(yl)); g.quadraticCurveTo(X(cx), Y(yl + ry * 0.35), X(cx - rx), Y(yl)); g.closePath(); if (lidK === 2) g.ellipse(X(cx), Y(cy), rx * 4, ry * 4, 0, 0, Math.PI); g.fill(); g.restore();
         // soft shadow along the closed lid, then the lash line
